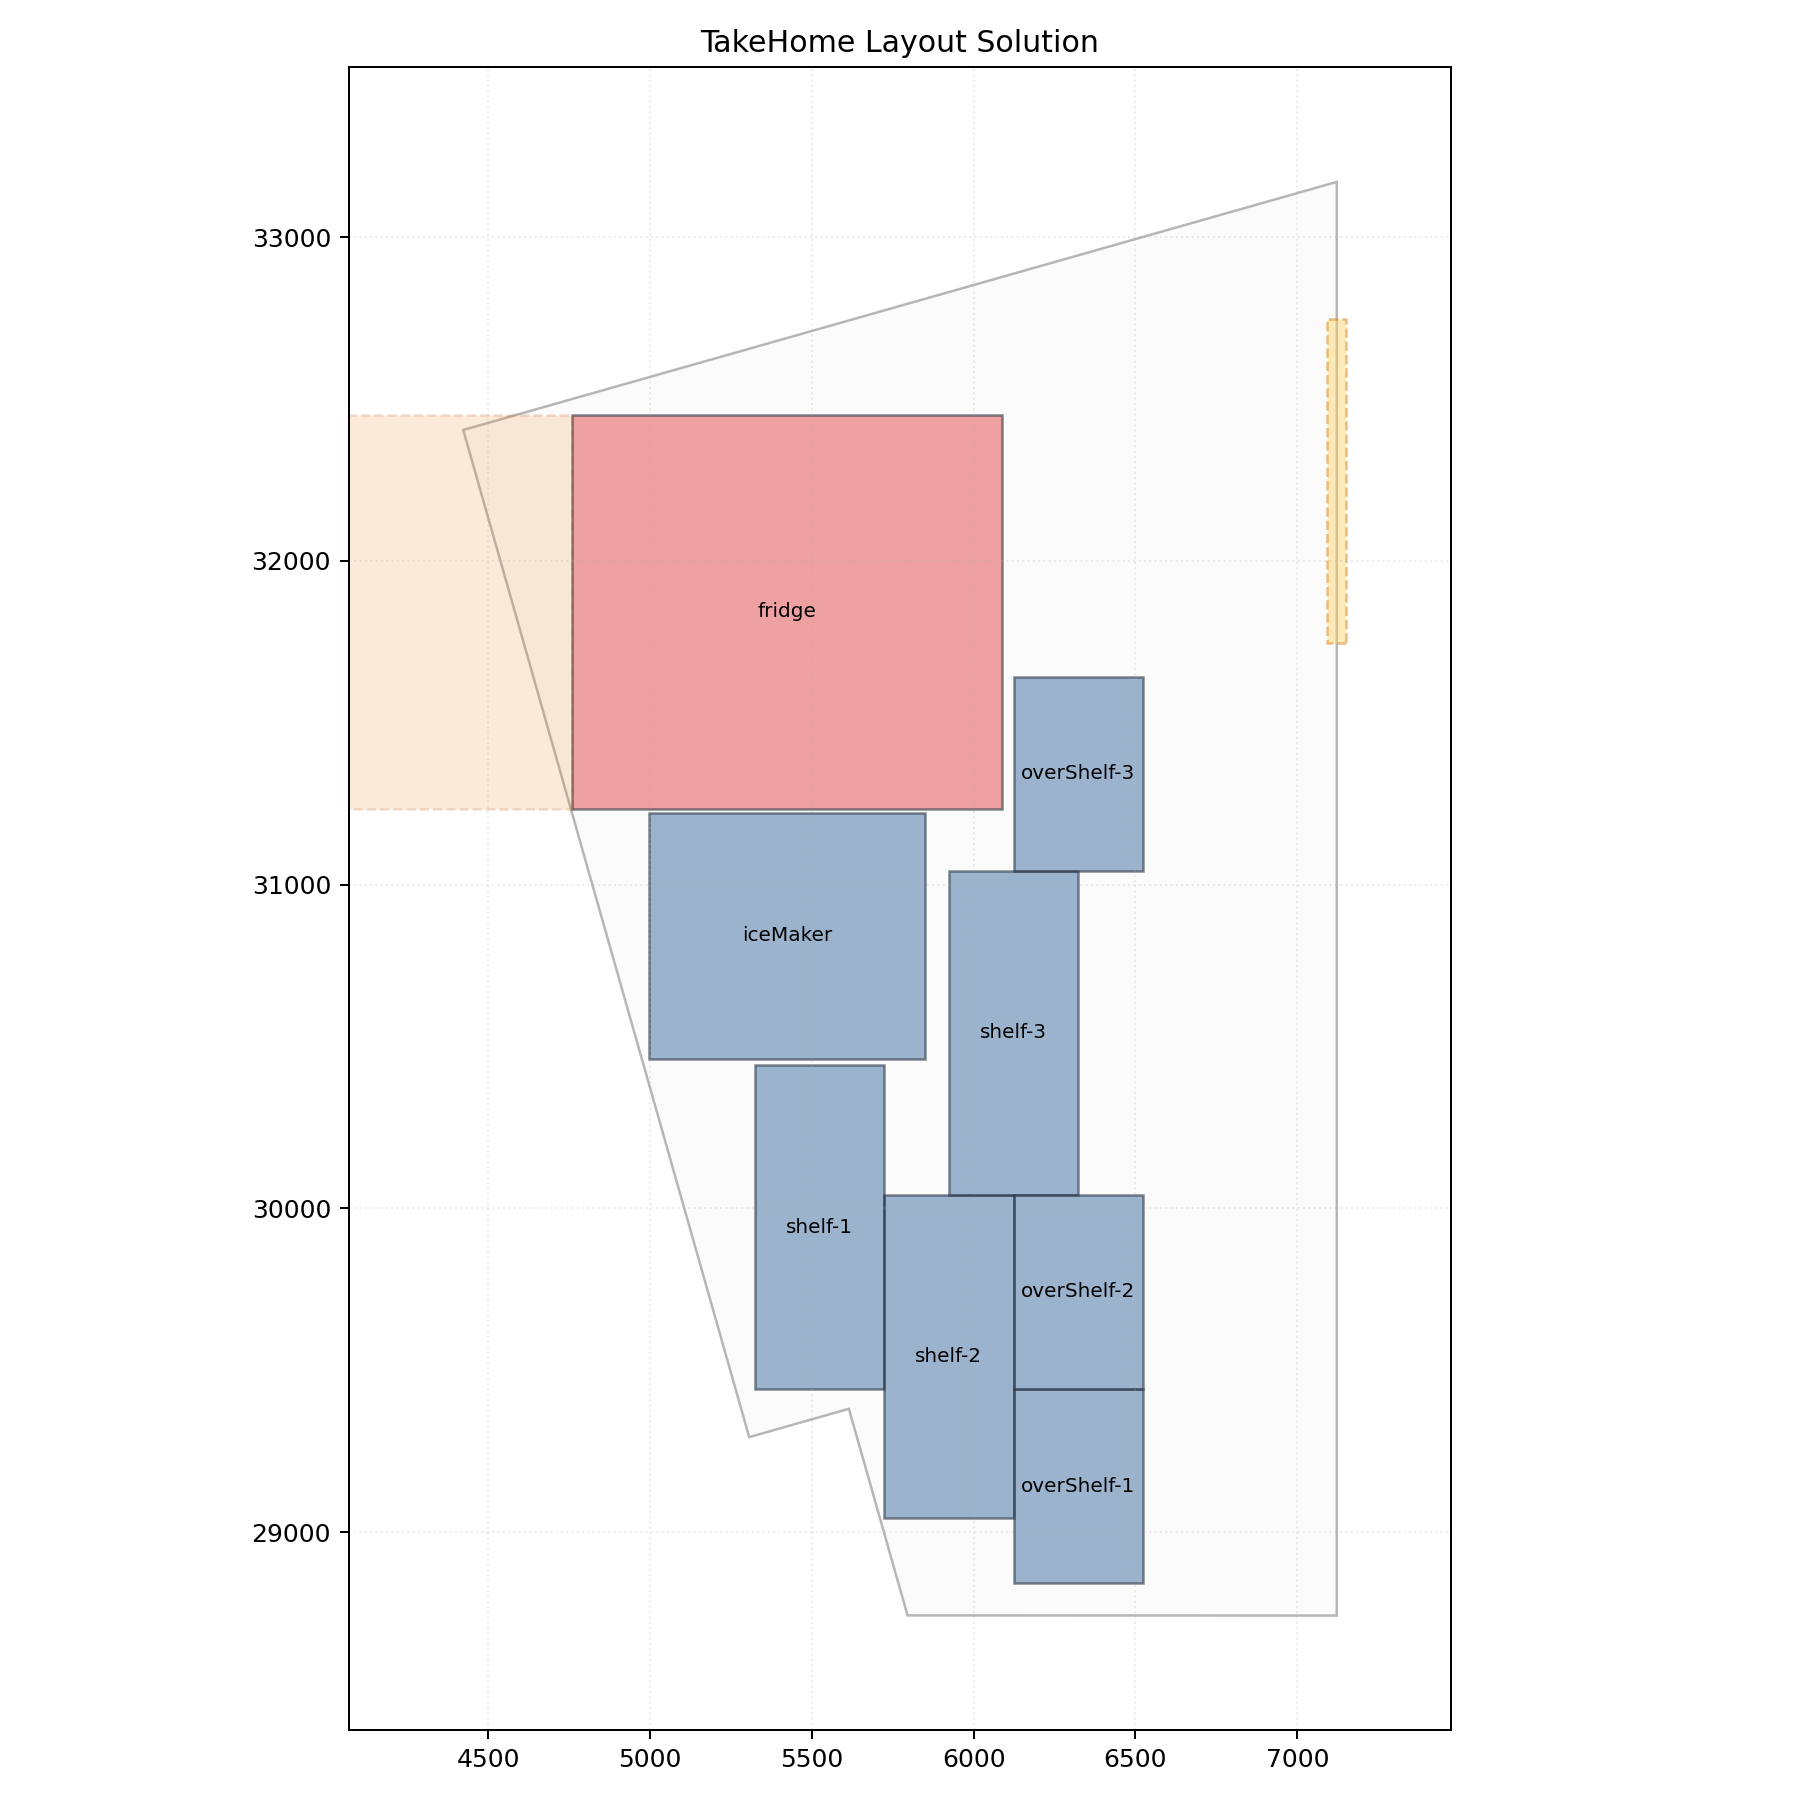
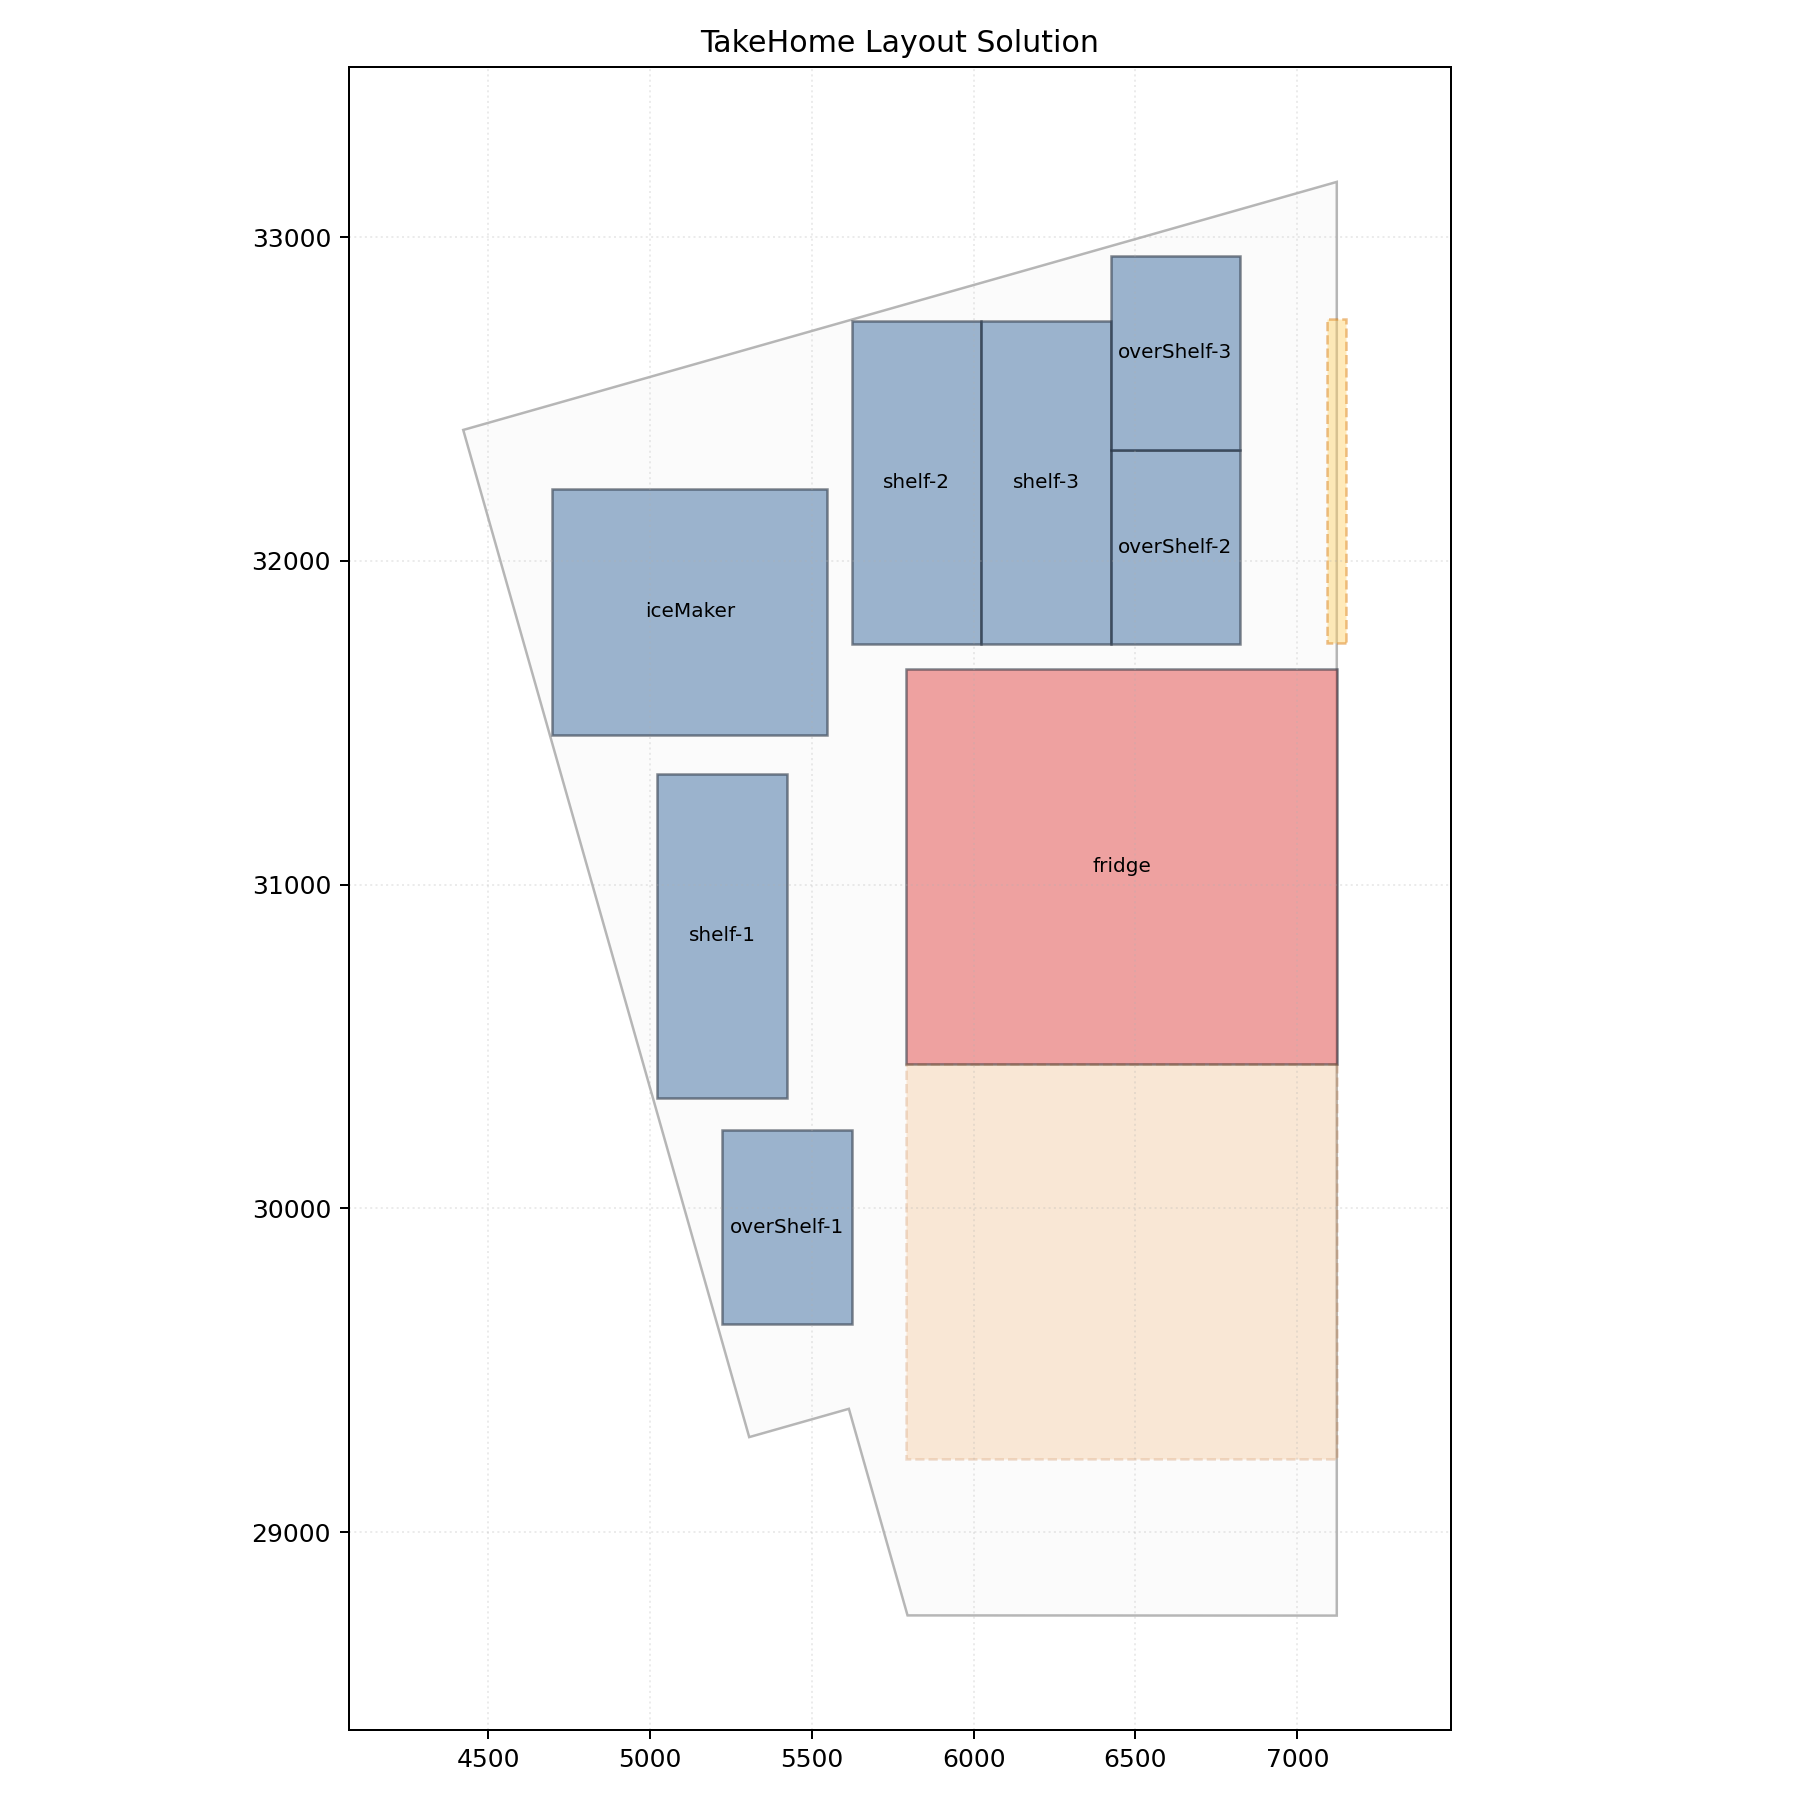
fix: 冰箱开门边改为length端面+贴墙候选按法线对齐轴内缩+贴墙法线朝内修正
- fridge_keepout: 禁放区从width侧改为length端面(题目要求'length的其中一边为开门边')，
  方向自适应选深入房间内部一侧(贴墙时门朝内)
- item_candidates: 贴墙内缩距离按法线对齐 length/width 轴取 half_l/half_w，
  修复旋转90°后贴墙候选点算错导致退化网格撒点的问题
- item_candidates: 法线强制指向房间内部，修复半数墙面无法生成贴墙候选的问题
- 4个example重新生成输出，全部通过几何校验(房间内/不重叠/不压门/冰箱开门禁区)

Changed region(s): [[0.1867, 0.1244, 0.7467, 0.9022]]

diff --git a/src/solver.py b/src/solver.py
@@ -75,23 +75,31 @@ def item_candidates(room: Polygon, item: ItemSpec, door_obstacles: List[Polygon]
     for rotation in rotations:
         half_l = item.length / 2.0
         half_w = item.width / 2.0
+        rot_rad = math.radians(rotation)
+        ux, uy = math.cos(rot_rad), math.sin(rot_rad)   # length 方向单位向量
+        vx, vy = -math.sin(rot_rad), math.cos(rot_rad)  # width 方向单位向量
         for edge_a, edge_b in polygon_edges(list(room.exterior.coords)):
             if edge_length(edge_a, edge_b) <= EPS:
                 continue
             ex, ey = edge_direction(edge_a, edge_b)
             nx, ny = -ey, ex
-            edge_ang = segment_angle(edge_a, edge_b)
-            # wall-adjacent candidates
-            wall_dir = (ex, ey)
+            # 法线必须指向房间内部，否则这面墙的贴墙候选会生成在墙外被全面丢弃
+            mid = ((edge_a[0] + edge_b[0]) / 2.0, (edge_a[1] + edge_b[1]) / 2.0)
+            if not room.buffer(EPS).covers(Point(mid[0] + nx * 5.0, mid[1] + ny * 5.0)):
+                nx, ny = -nx, -ny
+            # 贴墙时中心沿法线内缩的距离 = 物品在法线方向上的半尺寸。
+            # 法线与 length 轴对齐 -> half_l；与 width 轴对齐 -> half_w。
+            # 原先无条件用 half_w，物品旋转 90° 后贴墙点算错被丢弃，导致退化为网格撒点、不贴墙。
+            half_normal = half_l if abs(nx * ux + ny * uy) >= abs(nx * vx + ny * vy) else half_w
             wall_len = edge_length(edge_a, edge_b)
             samples = max(1, int(wall_len // step))
             for i in range(samples + 1):
                 t = 0 if samples == 0 else i / samples
-                px = edge_a[0] + wall_dir[0] * wall_len * t
-                py = edge_a[1] + wall_dir[1] * wall_len * t
+                px = edge_a[0] + ex * wall_len * t
+                py = edge_a[1] + ey * wall_len * t
                 inward_center = (
-                    px + nx * half_w,
-                    py + ny * half_w,
+                    px + nx * half_normal,
+                    py + ny * half_normal,
                 )
                 rect = rotate_rectangle(inward_center, item.length, item.width, rotation)
                 if room.buffer(EPS).covers(rect) and all(not rect.intersects(obs) for obs in door_obstacles):
@@ -132,23 +140,33 @@ def dominant_room_angle(room: Polygon) -> float:
     return best
 
 
-def fridge_keepout(candidate: Candidate, item: ItemSpec) -> Polygon:
-    # Conservative keep-out in front of the fridge along the positive local y direction.
-    front_depth = max(item.width, 600.0)
-    base = rotate_rectangle(candidate.center, item.length, item.width, candidate.rotation)
-    # Build a keep-out strip extending from the front edge.
+def fridge_keepout(room: Polygon, candidate: Candidate, item: ItemSpec) -> Polygon:
+    # 题目要求：冰箱 length 的其中一边为开门边，开门边不能放任何东西。
+    # 因此禁放区必须位于 length 端面外侧（而不是原先的 width 端面外侧）。
+    # 冰箱可能在墙边，门只能朝房间内部开，所以取 length 两端中
+    # 禁放条带深入房间内部更多（离墙更远）的那一端。
+    front_depth = max(item.length, 600.0)
     cx, cy = candidate.center
     ang = math.radians(candidate.rotation)
-    ux, uy = math.cos(ang), math.sin(ang)
-    vx, vy = -math.sin(ang), math.cos(ang)
+    ux, uy = math.cos(ang), math.sin(ang)      # length 方向
+    vx, vy = -math.sin(ang), math.cos(ang)     # width 方向
     half_l = item.length / 2.0
     half_w = item.width / 2.0
-    front_mid = (cx + vx * half_w, cy + vy * half_w)
-    p0 = (front_mid[0] - ux * half_l, front_mid[1] - uy * half_l)
-    p1 = (front_mid[0] + ux * half_l, front_mid[1] + uy * half_l)
-    p2 = (p1[0] + vx * front_depth, p1[1] + vy * front_depth)
-    p3 = (p0[0] + vx * front_depth, p0[1] + vy * front_depth)
-    return Polygon([p0, p1, p2, p3])
+
+    def build(sign: float) -> Polygon:
+        front_mid = (cx + ux * sign * half_l, cy + uy * sign * half_l)
+        p0 = (front_mid[0] - vx * half_w, front_mid[1] - vy * half_w)
+        p1 = (front_mid[0] + vx * half_w, front_mid[1] + vy * half_w)
+        p2 = (p1[0] + ux * sign * front_depth, p1[1] + uy * sign * front_depth)
+        p3 = (p0[0] + ux * sign * front_depth, p0[1] + uy * sign * front_depth)
+        return Polygon([p0, p1, p2, p3])
+
+    strip_pos = build(+1.0)
+    strip_neg = build(-1.0)
+    inner_ref = room.buffer(EPS)
+    if inner_ref.intersection(strip_pos).area >= inner_ref.intersection(strip_neg).area:
+        return strip_pos
+    return strip_neg
 
 
 def can_place(candidate: Candidate, room: Polygon, placed: List[Placement], obstacles: List[Polygon]) -> bool:
@@ -198,7 +216,7 @@ def solve(room_input: RoomInput) -> SolveResult:
             )
             pushed = False
             if item.kind == "fridge":
-                extra_obstacles.append(fridge_keepout(cand, item))
+                extra_obstacles.append(fridge_keepout(room, cand, item))
                 pushed = True
             if dfs(idx + 1):
                 return True

diff --git a/src/visualize.py b/src/visualize.py
@@ -44,7 +44,7 @@ def render_solution(problem: RoomInput, placements: List[Placement], output_path
         if placement.name.startswith("fridge"):
             dummy_candidate = type("DummyCandidate", (), {"center": placement.center, "rotation": placement.rotation})()
             dummy_item = type("DummyItem", (), {"length": placement.length, "width": placement.width})()
-            keepout = fridge_keepout(dummy_candidate, dummy_item)
+            keepout = fridge_keepout(room, dummy_candidate, dummy_item)
             _add_poly(ax, keepout, facecolor="#f28e2b", edgecolor="#b45309", alpha=0.18, linestyle="--")
 
     xs = [p[0] for p in problem.boundary]
